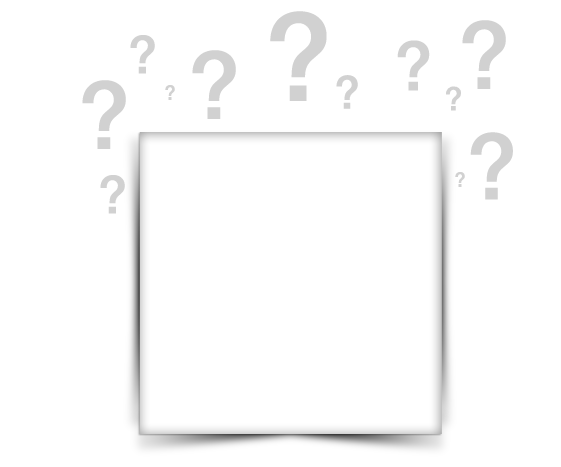
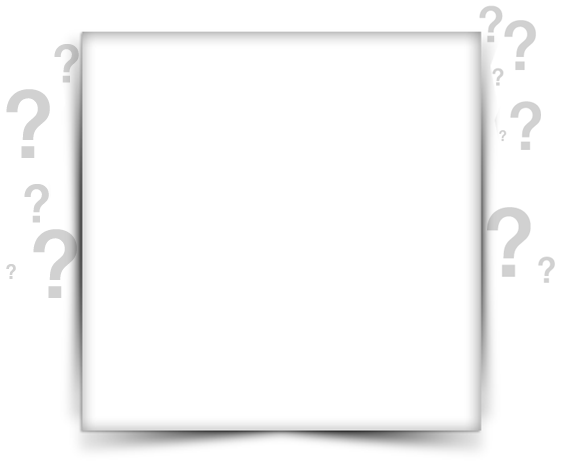
In-game layout adjustments

diff --git a/app/assets/stylesheets/application.css b/app/assets/stylesheets/application.css
@@ -139,7 +139,7 @@ table {
     padding-top: 100px;
     text-align: center;
     width: 180px;
-    margin-left: 180px;
+    margin-left: 136px;
 }
 
 .game-left span {
@@ -164,29 +164,30 @@ table {
     width: 560px;
     position: relative;
     height: 400px;
-    margin: 0px -160px;
+    margin: 0px -116px;
 }
 
 .game-center .mask {
     position: absolute;
-    left: 0;
+    left: 20px;
     top: -95px;
     z-index: 3;
 }
 
 .game-center .image {
-    height: 300px;
-    left: 140px;
+    left: 101px;
+    top: -63px;
     overflow: hidden;
     position: absolute;
-    top: 39px;
-    width: 300px;
+    width: 400px;
+    height: 400px;
     z-index: 2;
 }
+.game-center .image img{height: 400px;}
 
 .game-right {
     margin-top: 134px;
-    margin-left: 16px;
+    margin-left: 38px;
     background: url('/assets/bg-gameright.png') no-repeat scroll -3px 68px transparent;
     color: #FFFFFF;
     float: left;
@@ -207,13 +208,21 @@ table {
 }
 
 .powerup a {
-    text-decoration: none;
-    color: #777777;
-    float: left;
-    display: block;
-    margin: 10px;
-    width: 33px;
+  text-decoration: none;
+  color: #777777;
+  float: left;
+  display: block;
+  margin: 10px;
+  width: 68px;
+  height: 68px;
+  position: relative;
 }
+.powerup a span { display: block; position: absolute; top: 7px; left: 7px; font-size: 10px; color: #999; text-align:center;height: 15px; width: 15px; }
+.powerup a:hover { background-position: 0 -77px; }
+.powerup a.disabled { background-position:  0 -157px; }
+.powerup a#cut { background-image: url(/assets/specials/cut-icon.png); }
+.powerup a#pass { background-image: url(/assets/specials/next-icon.png); }
+.powerup a#extra_time { background-image: url(/assets/specials/time-icon.png); }
 
 .answers {
     width: 100%;
@@ -360,6 +369,7 @@ h2 span{color: #f0cfa3;}
 .footer{width: 100%; text-align: center; padding: 10px 0px; background-color: #000000; font-size: 11px; color: #999999;}
 .footer a{text-decoration: none; color: #efefef;}
 .footer a:hover{color: ##dddddd;}
+
 
 
 /**

diff --git a/app/controllers/application_controller.rb b/app/controllers/application_controller.rb
@@ -6,7 +6,7 @@ class ApplicationController < ActionController::Base
   # Load author context
   #
   def load_context!
-    #session[:user_id] = User.first.id if Rails.env.development?
+    session[:user_id] = User.first.id if Rails.env.development?
     return unless session[:user_id]
 
     @user = User.find(session[:user_id])
@@ -18,4 +18,10 @@ class ApplicationController < ActionController::Base
     response.headers["Expires"] = "Fri, 01 Jan 1990 00:00:00 GMT"
   end
 
+end
+
+module SPECIAL
+  CUT = Special.find_by_identifier("cut").id
+  PASS = Special.find_by_identifier("pass").id
+  EXTRA_TIME = Special.find_by_identifier("extra_time").id
 end

diff --git a/app/controllers/game_controller.rb b/app/controllers/game_controller.rb
@@ -71,12 +71,11 @@ class GameController < ApplicationController
 
     ranking = @user.rankings.where("matter_id = ? AND week_date = ?", params[:matter_id], Time.now.at_beginning_of_week).first
     if ranking.nil?
-      @user.rankings.create(:matter_id => params[:matter_id], :week_date => Time.now.at_beginning_of_week, :score => score)
+      @user.rankings.create(:matter_id => params[:matter_id], :week_date => Time.now.at_beginning_of_week, :total_score => score)
     else
       ranking.score += score
       ranking.save
     end
-
 
     redirect_to :action => :ask, :score => score
   end
